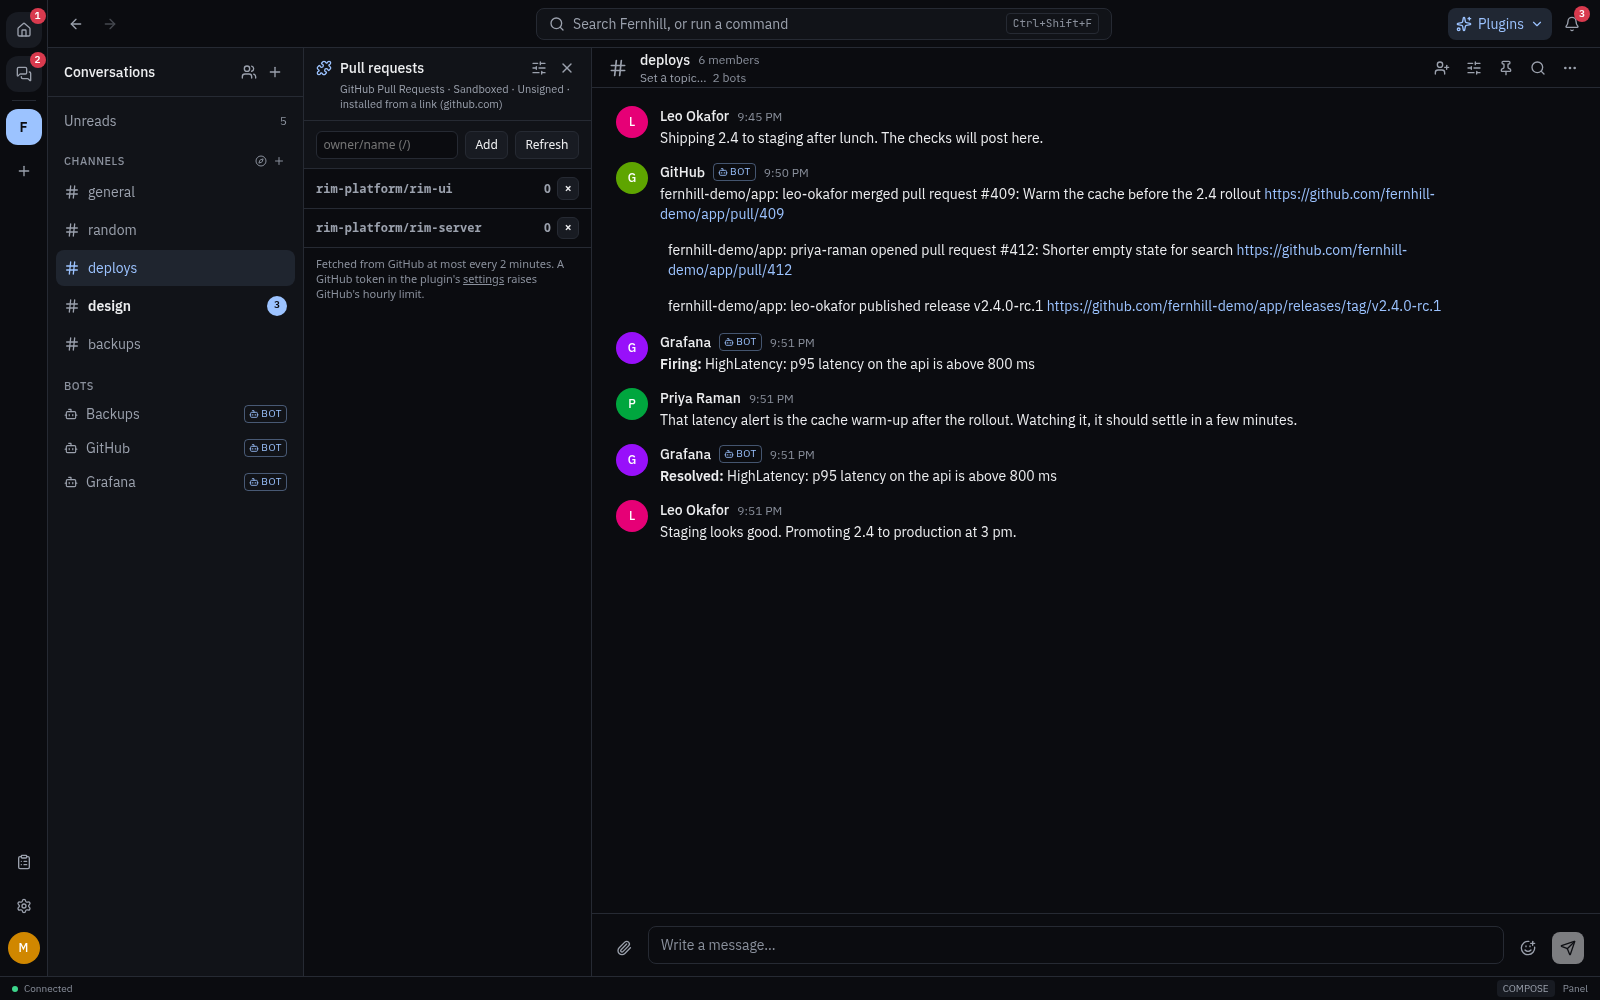
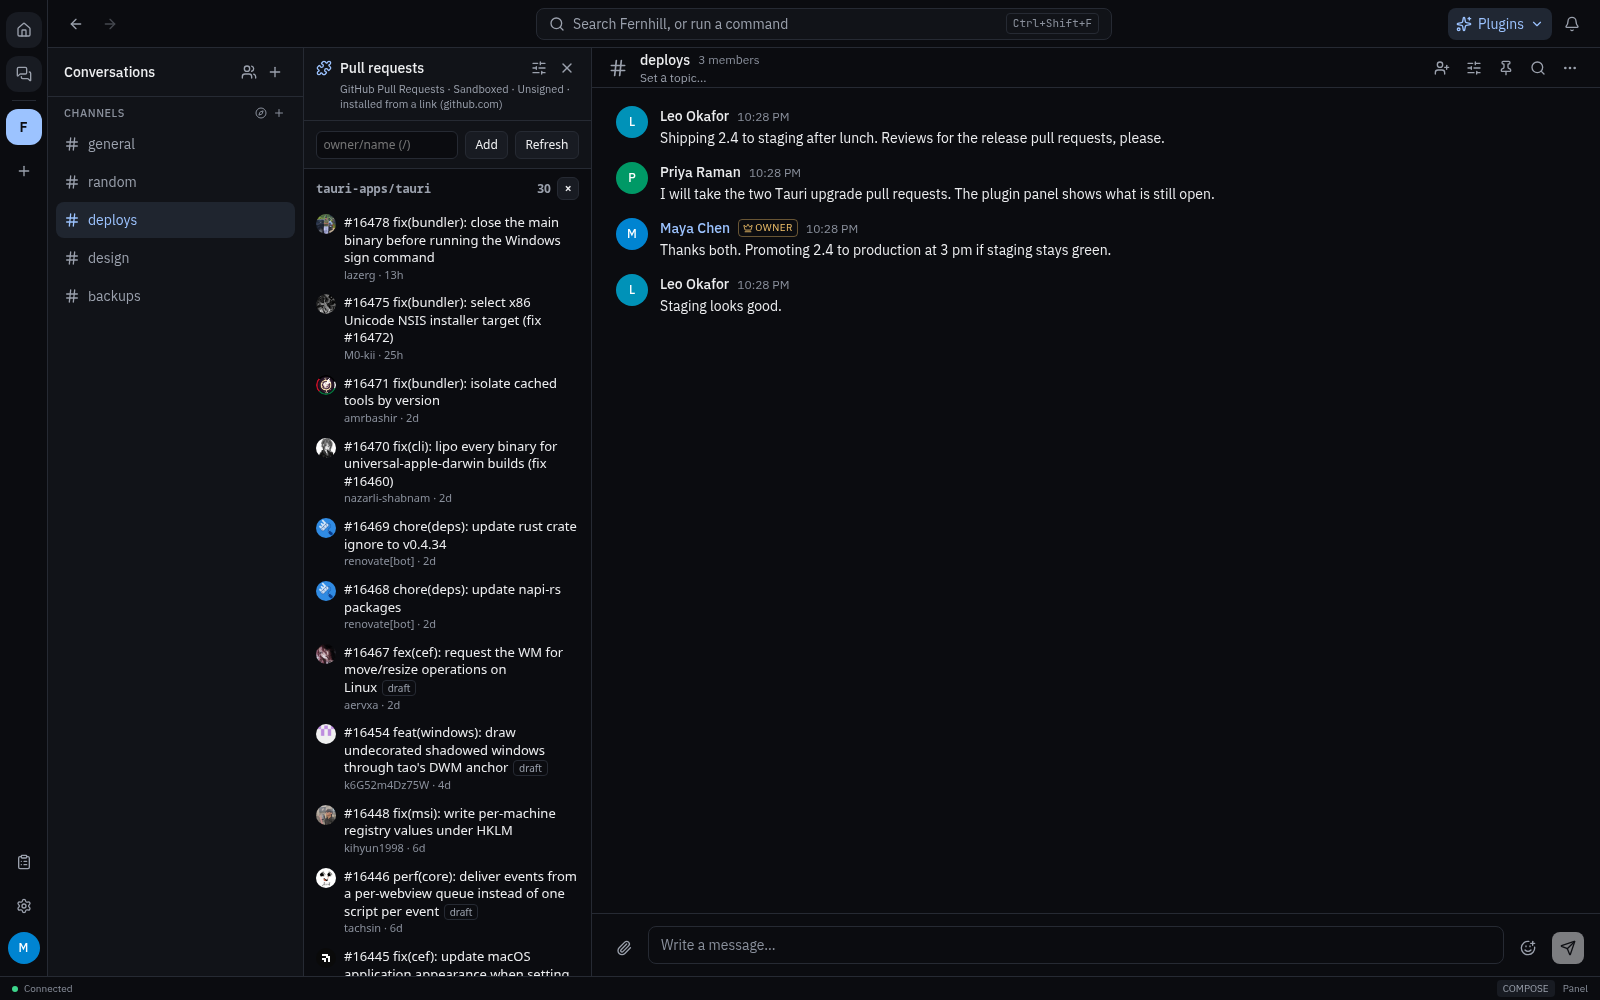
Recapture the plugin panel with pull requests in it
The panel showed two repositories with no open pull requests, which
says nothing about what a plugin is for. It now lists the open pull
requests of a busy public repository, fetched by the plugin from
GitHub's public API, beside a made-up conversation.

diff --git a/index.html b/index.html
@@ -114,7 +114,7 @@
     <article class="workflow-panel" id="panel-webhooks" role="tabpanel" aria-labelledby="tab-webhooks" tabindex="0" data-workflow-panel><div id="webhooks"><p class="section-subhead">05 / WEBHOOK FORMATS</p><h4>Say what an alert<br>should look like.</h4><p>A webhook lets another service post into a channel. Pick the ready-made GitHub or Grafana format, or write rules of your own and try them on a real delivery.</p><p class="workflow-example">“When <code>status</code> is <code>failed</code>, post: Backup failed on {host}: {reason}.”</p><p class="small">Webhooks only receive. They're separate from pipelines, which can't call a web address yet.</p><div class="link-row"><a class="text-link" href="docs/client/webhooks.html">Post alerts from other services ↗</a></div></div><figure><div class="shot-frame"><button type="button" class="shot-trigger" data-zoom aria-label="Enlarge the webhook format editor screenshot"><img src="assets/screenshots/webhook-format.webp" alt="RIM's webhook format editor: Try it says which rule matches a delivery and shows the message it would post, above the deliveries that reached a test address." width="1600" height="1000" loading="lazy"></button></div><figcaption>Captured from the running app · click to enlarge</figcaption></figure></article>
     </div>
 
-    <div class="split inside-split" id="plugins"><figure><div class="shot-frame"><button type="button" class="shot-trigger" data-zoom aria-label="Enlarge the plugin panel screenshot"><img src="assets/screenshots/plugins.webp" alt="The Pull requests plugin's panel open beside a conversation in RIM." width="1600" height="1000" loading="lazy"></button></div><figcaption>A plugin's panel beside the conversation.</figcaption></figure><div><p class="section-subhead">PLUGINS</p><h3>Bring your tools<br>into the conversation.</h3><p class="lede">A plugin can add panels, commands and menu actions. Install one, give it the permissions it asks for, and use its actions in your shortcuts.</p><div class="plugin-list"><a href="https://github.com/rim-platform/plugin-github-prs"><strong>Pull requests ↗</strong><p>See open pull requests beside the conversation.</p></a><a href="https://github.com/rim-platform/plugin-poll"><strong>Polls ↗</strong><p>Ask a question and collect votes.</p></a><a href="https://github.com/rim-platform/plugin-releases"><strong>Releases ↗</strong><p>Watch releases and share one when you choose, in an unencrypted conversation.</p></a><a href="https://github.com/rim-platform/plugin-k8s-pods"><strong>Kubernetes pods ↗</strong><p>Inspect pods and logs on desktop.</p></a></div></div></div>
+    <div class="split inside-split" id="plugins"><figure><div class="shot-frame"><button type="button" class="shot-trigger" data-zoom aria-label="Enlarge the plugin panel screenshot"><img src="assets/screenshots/plugins.webp" alt="The Pull requests plugin's panel listing the open pull requests of a public GitHub repository, beside a conversation in RIM." width="1600" height="1000" loading="lazy"></button></div><figcaption>A plugin's panel beside the conversation.</figcaption></figure><div><p class="section-subhead">PLUGINS</p><h3>Bring your tools<br>into the conversation.</h3><p class="lede">A plugin can add panels, commands and menu actions. Install one, give it the permissions it asks for, and use its actions in your shortcuts.</p><div class="plugin-list"><a href="https://github.com/rim-platform/plugin-github-prs"><strong>Pull requests ↗</strong><p>See open pull requests beside the conversation.</p></a><a href="https://github.com/rim-platform/plugin-poll"><strong>Polls ↗</strong><p>Ask a question and collect votes.</p></a><a href="https://github.com/rim-platform/plugin-releases"><strong>Releases ↗</strong><p>Watch releases and share one when you choose, in an unencrypted conversation.</p></a><a href="https://github.com/rim-platform/plugin-k8s-pods"><strong>Kubernetes pods ↗</strong><p>Inspect pods and logs on desktop.</p></a></div></div></div>
     <div class="explainers">
       <details><summary>Where do plugins run?</summary><div class="details-body"><p>In your app. Web plugins run sandboxed, in the desktop or web app, with the permissions and network addresses you granted. Desktop plugins that run a program run it on your computer with your account's access, including local tools and credentials.</p><p>A workspace can offer plugins through its signed list. It doesn't run them for you.</p></div></details>
       <details><summary>How do I install a plugin?</summary><div class="details-body"><p>Open Settings → Plugins. Install from a link, or on the desktop from a folder or a Git repository. Look at the source and the permissions before turning it on.</p><p>A workspace's signed list pins a version signed by its publisher. A folder, Git or plain link install is marked unsigned.</p><a href="plugins/index.html">Read the plugin guide ↗</a></div></details>

diff --git a/assets/screenshots/README.md b/assets/screenshots/README.md
@@ -24,8 +24,8 @@ The workspace Fernhill, the people Maya Chen, Leo Okafor, Priya Raman and Sam Or
 message are made up, created through the application. The GitHub and Grafana posts are real
 deliveries to real webhooks of that instance, sent with `curl` in the shapes GitHub and Grafana
 send; nothing was sent from or to GitHub or Grafana, and the repository they name,
-`fernhill-demo/app`, is invented. The plugin's repository list shows what GitHub's public API
-answered for `rim-platform/rim-ui` and `rim-platform/rim-server`. No public RIM account was created
+`fernhill-demo/app`, is invented. The plugin's panel shows what GitHub's public API answered for the
+public repository `tauri-apps/tauri`: real pull requests, titles and authors, as GitHub lists them. No public RIM account was created
 and nothing was posted to a public workspace. Credentials, webhook URLs and recovery material are
 not part of these assets beyond what a screen shows of the throwaway local instance.
 
@@ -64,7 +64,7 @@ not part of these assets beyond what a screen shows of the throwaway local insta
 | `channel-alerts.webp` | Open `Fernhill` and `#deploys`. The Bots section lists the three bots. |
 | `webhook-format.webp` | Settings → Bots → New webhook: `backups`, bot Backups, format Custom → Write the format. Paste JSON with two rules (`status` equals `failed`, and `ok`), Start test URL, post an `ok` and a `failed` delivery to the test URL with `curl`, open the `failed` delivery, Use as sample, Try. Scroll to Try it and capture; then Create webhook, which keeps the test URL. |
 | `agent-approval.webp` | Inside the isolated desktop harness: create an account and the workspace Fernhill with `#deploys`, post two messages, Settings → Agents → Let agents on this computer connect. A scripted stand-in agent (not a model) asks to pair as "Deploy notes agent"; compare the code and choose The code matches, connect. Choose what it can read: `deploys`. The stand-in lists the workspaces and channels, reads `#deploys`, and calls `rim_send_message` with release notes. Capture the card, then Cancel. |
-| `plugins.webp` | Install the Pull requests plugin from its release link with `#sha256=` and the hash above, Approve and turn on, open `#deploys`, then Plugins in the top bar → Pull requests. |
+| `plugins.webp` | Recaptured on a second, fresh instance from the same commits, with Maya, Leo and Priya and four messages in `#deploys`. Install the Pull requests plugin from its release link with `#sha256=` and the hash above, Approve and turn on, open `#deploys`, then Plugins in the top bar → Pull requests. Remove the two repositories it starts with, add `tauri-apps/tauri`, and capture once the list has loaded. |
 | `commands.webp` | In `#general`, press Ctrl+K. |
 | `custom-command.webp` | Settings → Commands → New command. ID `clear_unread_badges`, title `Clear unread badges`, description `Mark workspace conversations and notifications as read.`, steps Mark All as Read and Mark All Notifications Read. Capture the filled form, then Create. |
 | `macros.webp` | Settings → Macros → New Macro. Name `Heads down`, description `Clear notifications and focus for two hours.`, steps `notifications.mark_all_read` with `{}` and `notifications.dnd` with `{"mode":"until","minutes":"120"}`. Save, then open it with the pencil and capture the edit form. |
